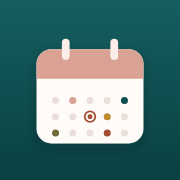
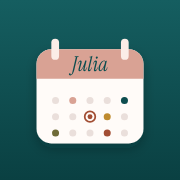
Ícone com o nome Julia no topo da agenda
Claude-Session: https://claude.ai/code/session_01RXmwnwCddyDbXJ53u66KPR

Changed region(s): [[0.3889, 0.3056, 0.6111, 0.4167], [0.6111, 0.1944, 0.7222, 0.3333], [0.2778, 0.1944, 0.3889, 0.3333]]

diff --git a/sw.js b/sw.js
@@ -1,4 +1,4 @@
-const C='agenda-v4';
+const C='agenda-v5';
 const FILES=['./','./index.html','./manifest.webmanifest','./icon-192.png','./icon-512.png','./apple-touch-icon.png'];
 self.addEventListener('install',e=>{e.waitUntil(caches.open(C).then(c=>c.addAll(FILES)));self.skipWaiting()});
 self.addEventListener('activate',e=>{e.waitUntil(caches.keys().then(ks=>Promise.all(ks.filter(k=>k!==C).map(k=>caches.delete(k)))));self.clients.claim()});
